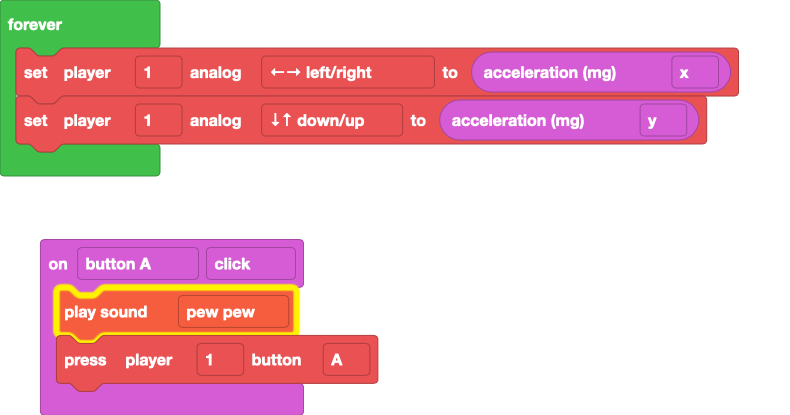
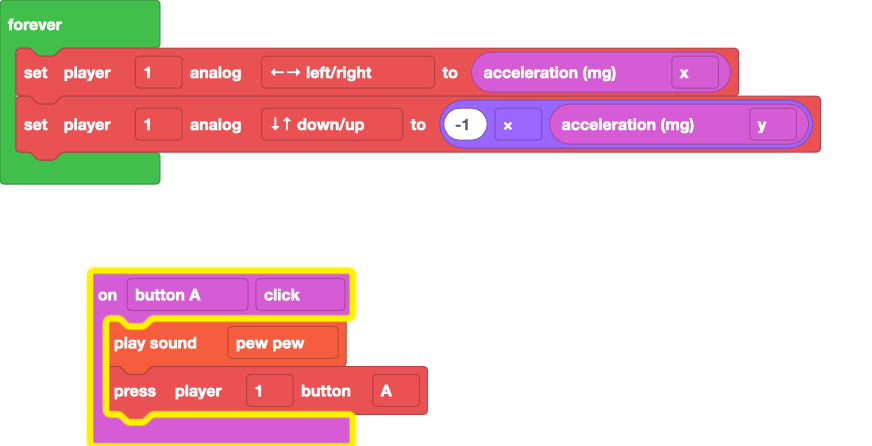
Update main.blocks, main.ts

Changed region(s): [[0.0, 0.0, 0.9418, 0.4337], [0.0304, 0.5783, 0.5165, 1.0]]

diff --git a/main.ts b/main.ts
@@ -4,5 +4,5 @@ input.buttonA.onEvent(ButtonEvent.Click, function () {
 })
 forever(function () {
     makerController.player1.setAnalog(ArcadeAnalogButton.LeftRight, input.acceleration(Dimension.X))
-    makerController.player1.setAnalog(ArcadeAnalogButton.DownUp, input.acceleration(Dimension.Y))
+    makerController.player1.setAnalog(ArcadeAnalogButton.DownUp, -1 * input.acceleration(Dimension.Y))
 })
